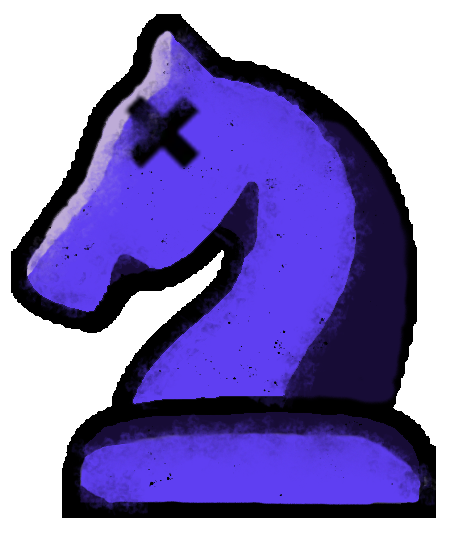
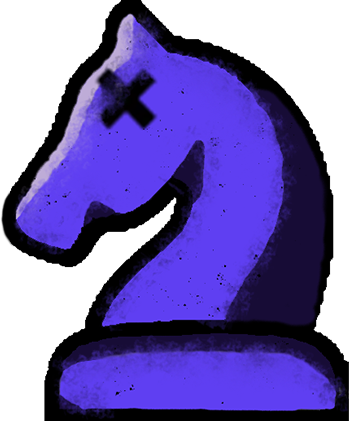
little update

diff --git a/style.css b/style.css
@@ -9,7 +9,7 @@
     width:100%;
     height:100vh;
     display: flex;
-    justify-content: center;
+    justify-content: space-evenly;
     align-items: center;
     background-image: url(wither/background.webp);
     background-position: center;
@@ -23,8 +23,6 @@
     display: flex;
     justify-content: center;
     align-items: center;
-    background-repeat: no-repeat;
-    background-position: 20vw;
 }
 .chose{
     position: relative;
@@ -63,11 +61,25 @@
     width: 10vw;
     height: 2vw;
 }
-.background{
+.face{
     width:20vw;
     position: absolute;
-    left: -8.4vw;
-    top: -8.4vw;
+    left: -8vw;
+    top: -9.6vw;
+    
+}
+.mao_esquerda{
+    width:10vw;
+    position: absolute;
+    left: -0.6vw;
+    top: 13.45vw;
+    
+}
+.mao_direita{
+    width:10vw;
+    position: absolute;
+    left: 20.4vw;
+    top: -0.8vw;
 }
 #black{
     width: 5vw;
@@ -95,6 +107,12 @@
 }
 .chose button:hover{
     transform: scale(1.1);
+}
+.score{
+    width: 30%;
+    height: 40vw;
+    background-color: black;
+    border-radius: 1vw;
 }
 .xadrez{
     width:50%;
@@ -131,14 +149,14 @@
 .torre.white{
     background-image: url(wither/torre_branca.png);
     background-position: center;
-    background-size: 3.6vw;
+    background-size: 3.7vw;
     background-repeat: no-repeat;
 }
 
 .torre.black{
     background-image: url(wither/torre_preta.png);
     background-position: center;
-    background-size: 4vw;
+    background-size: 3.7vw;
     background-repeat: no-repeat;
 }
 .cavalo.white{
@@ -150,7 +168,7 @@
 .cavalo.black{
     background-image: url(wither/cavalo_preto.png);
     background-position: center;
-    background-size: 4.2vw;
+    background-size: 4vw;
     background-repeat: no-repeat;
 }
 .bispo.white{

diff --git a/index.html b/index.html
@@ -12,10 +12,13 @@
     <div class="container">
         <div class="xadrez">
         </div>
+        <div class="score"></div>
         <div class="container_chose">
             <div class="chose">
                 <img class="titulo" src="wither/titulo.png" alt="">
-                <img class="background" src="wither/face.png" alt="">
+                <img class="face" src="wither/face.png" alt="">
+                <img class="mao_esquerda" src="wither/mao_esquerda.png" alt="">
+                <img class="mao_direita" src="wither/mao_direita.png" alt="">
                 <p class="title">
                     Seja bem vindo ao WitherChess!
                 </p>
